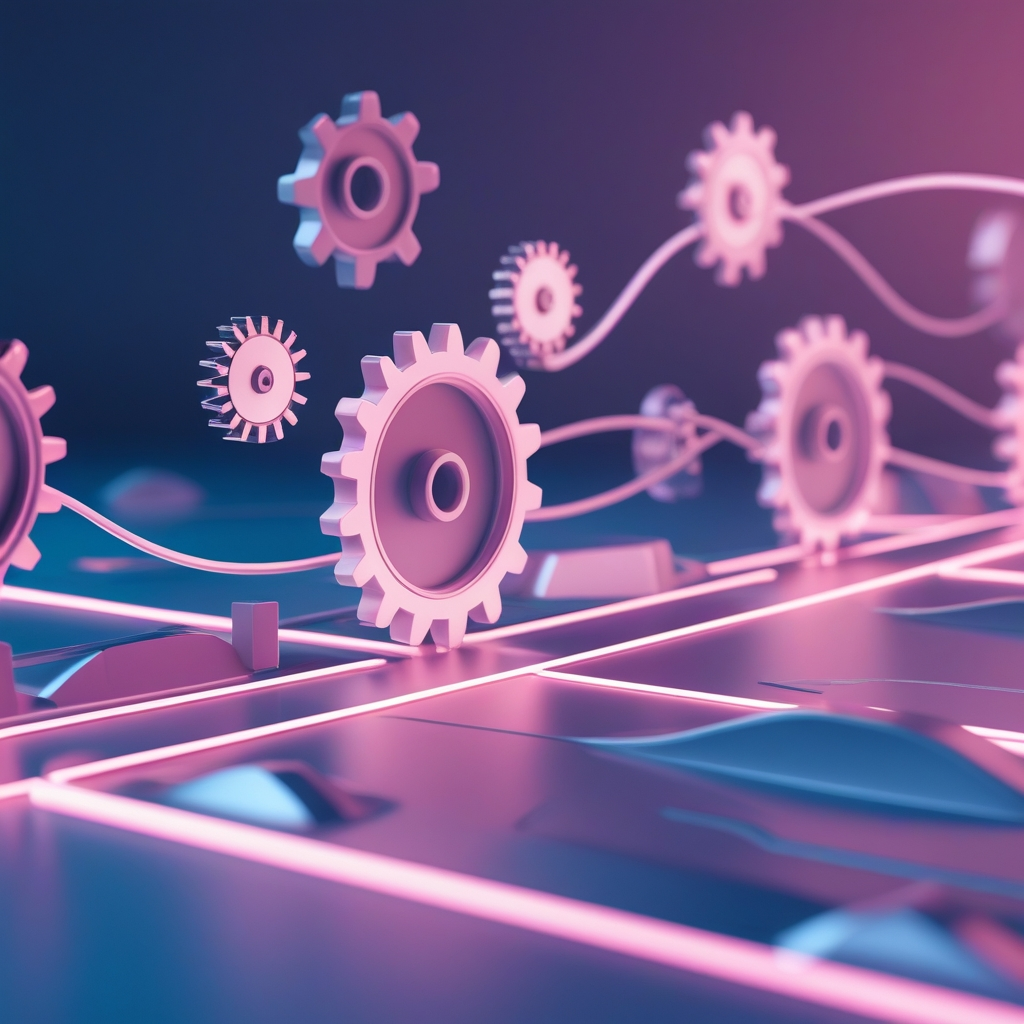
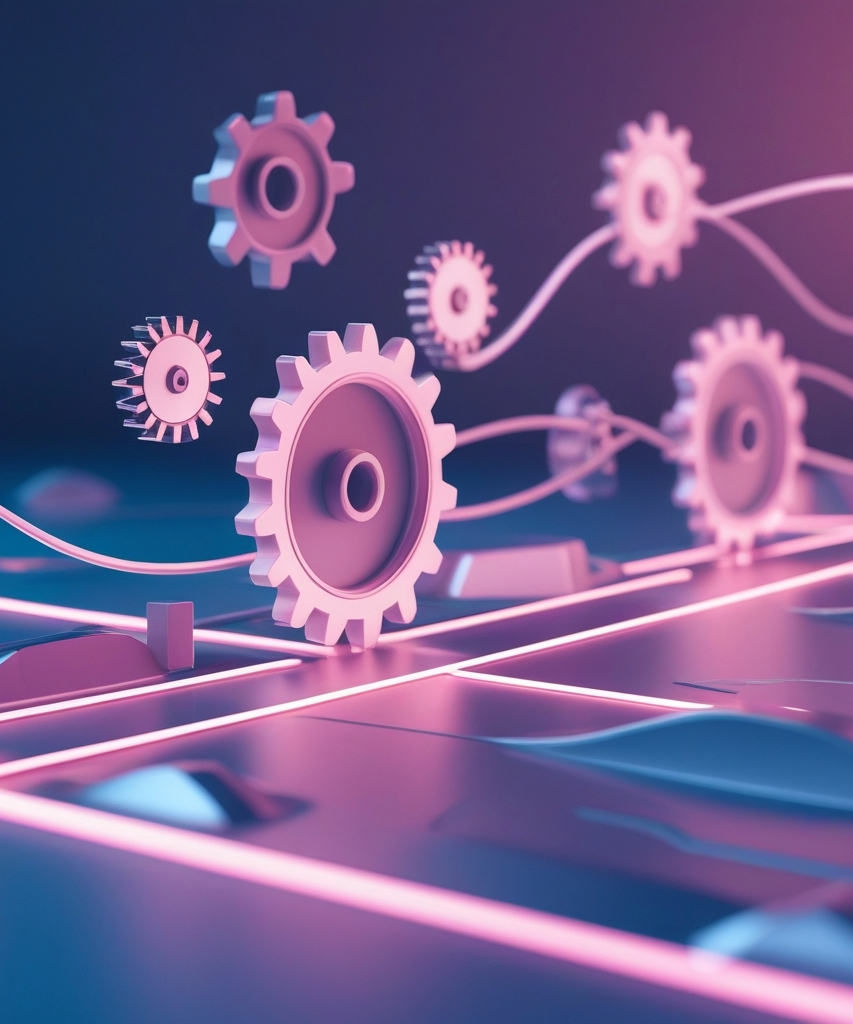
fixed layout2 image bug

diff --git a/src/utility/components/Layout2.tsx b/src/utility/components/Layout2.tsx
@@ -6,9 +6,8 @@ import { MotionValue, useMotionValue, motion, useScroll, useTransform } from "fr
 import React, { useRef } from "react";
 import { RxChevronRight } from "react-icons/rx";
 import clsx from "clsx";
-// import sellerImg from "../../assets/cta_imgs/sellerCardImg (2).jpg";
-import sellerImg from "../../assets/cta_imgs/sellerCardImg.jpg";
-import buyersImg from "../../assets/cta_imgs/buyersCard1.png";
+import sellerImg from "../../assets/cta_imgs/sellerImg.jpg";
+import buyersImg from "../../assets/cta_imgs/buyersImg.png";
 import SeamlessImg from "../../assets/cta_imgs/card3Img.jpg";
 
 
@@ -98,7 +97,7 @@ const FeatureSection = ({
         </div>
       ) : (
         <motion.div
-          className="static grid grid-cols-1 content-center overflow-hidden border border-border-primary bg-secondary_bg md:sticky md:top-[10%] md:mb-[10vh] md:h-[80vh] md:grid-cols-2"
+          className="static grid grid-cols-1 content-center overflow-hidden border border-border-primary bg-secondary_bg md:sticky md:top-[10%] md:mb-[10vh] md:h-[75vh] 2xl:h-[60vh] md:grid-cols-2"
           style={{ scale }}
         >
           <FeatureSectionContent isEven={isEven} {...featureSection} />
@@ -134,11 +133,11 @@ const FeatureSectionContent = ({
     </div>
     <div
       className={clsx(
-        "order-last  flex flex-col items-center justify-center ",
+        "order-last  flex flex-col items-center justify-center md:-mr-3",
         isEven ? "md:order-last" : "md:order-first",
       )}
     >
-      <img src={featureSection.image.src} alt={featureSection.image.alt} />
+      <img src={featureSection.image.src} alt={featureSection.image.alt}  />
     </div>
   </React.Fragment>
 );
